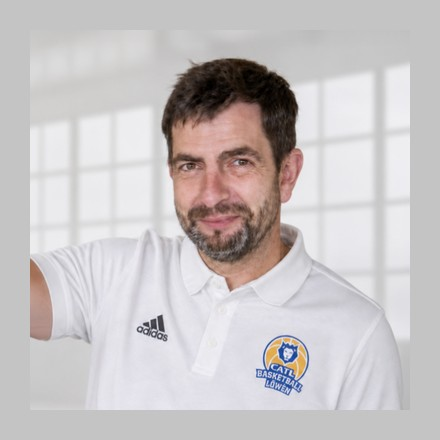
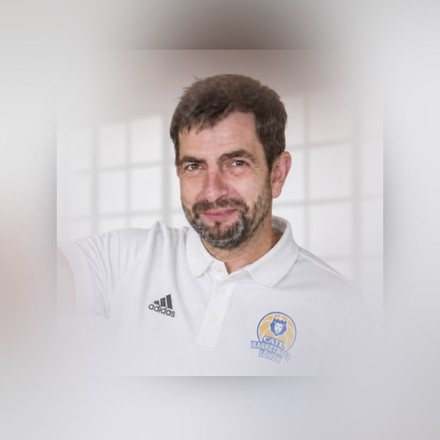
Freundeskreis: Marko-Foto mit weichem Bild-Verlauf statt leerer grauer Fläche (Kreis bleibt komplett gefüllt); Matthias-Foto durch neue Version mit besserem Studio-Hintergrund ersetzt; Foto-URLs mit Versions-Parameter gegen Browser-Cache; mobiler Lead-Text bricht jetzt dreizeilig um statt übers Bild

diff --git a/css/site.css b/css/site.css
@@ -958,6 +958,12 @@ body.hide-mobile-cta .nav-actions .mobile-cta { display: none; }
 @media (max-width: 899px) {
   .hero-photo.hero-freundeskreis p.lead { white-space: normal; max-width: 46ch; }
 }
+@media (max-width: 599px) {
+  /* Schmalerer Umbruch (3 statt 2 Zeilen) hält den Text im deckenden linken
+     Bereich des Verlaufs, statt auf das Foto rechts überzulaufen (Kontrast-
+     Problem, gemeldet 23.07.2026). */
+  .hero-photo.hero-freundeskreis p.lead { max-width: 27ch; }
+}
 
 /* Hero-Variante für die Profi-Team-Seite — echtes Mannschaftsfoto */
 .hero-photo.hero-profis {

diff --git a/partner/freundeskreis.html b/partner/freundeskreis.html
@@ -78,7 +78,7 @@
         if (m.sponsor) { stars += addStar('gold', 'Sponsor'); }
         if (m.gesellschafter) { stars += addStar('blue', 'Gesellschafter'); }
         var avatarInner = m.foto
-          ? '<img class="freundeskreis-avatar-photo" src="' + m.foto + '" alt="" width="88" height="88" />'
+          ? '<img class="freundeskreis-avatar-photo" src="' + m.foto + '?v=1784667836" alt="" width="88" height="88" />'
           : m.initialen;
         return '<div class="freundeskreis-card">' +
           '<div class="freundeskreis-avatar">' +